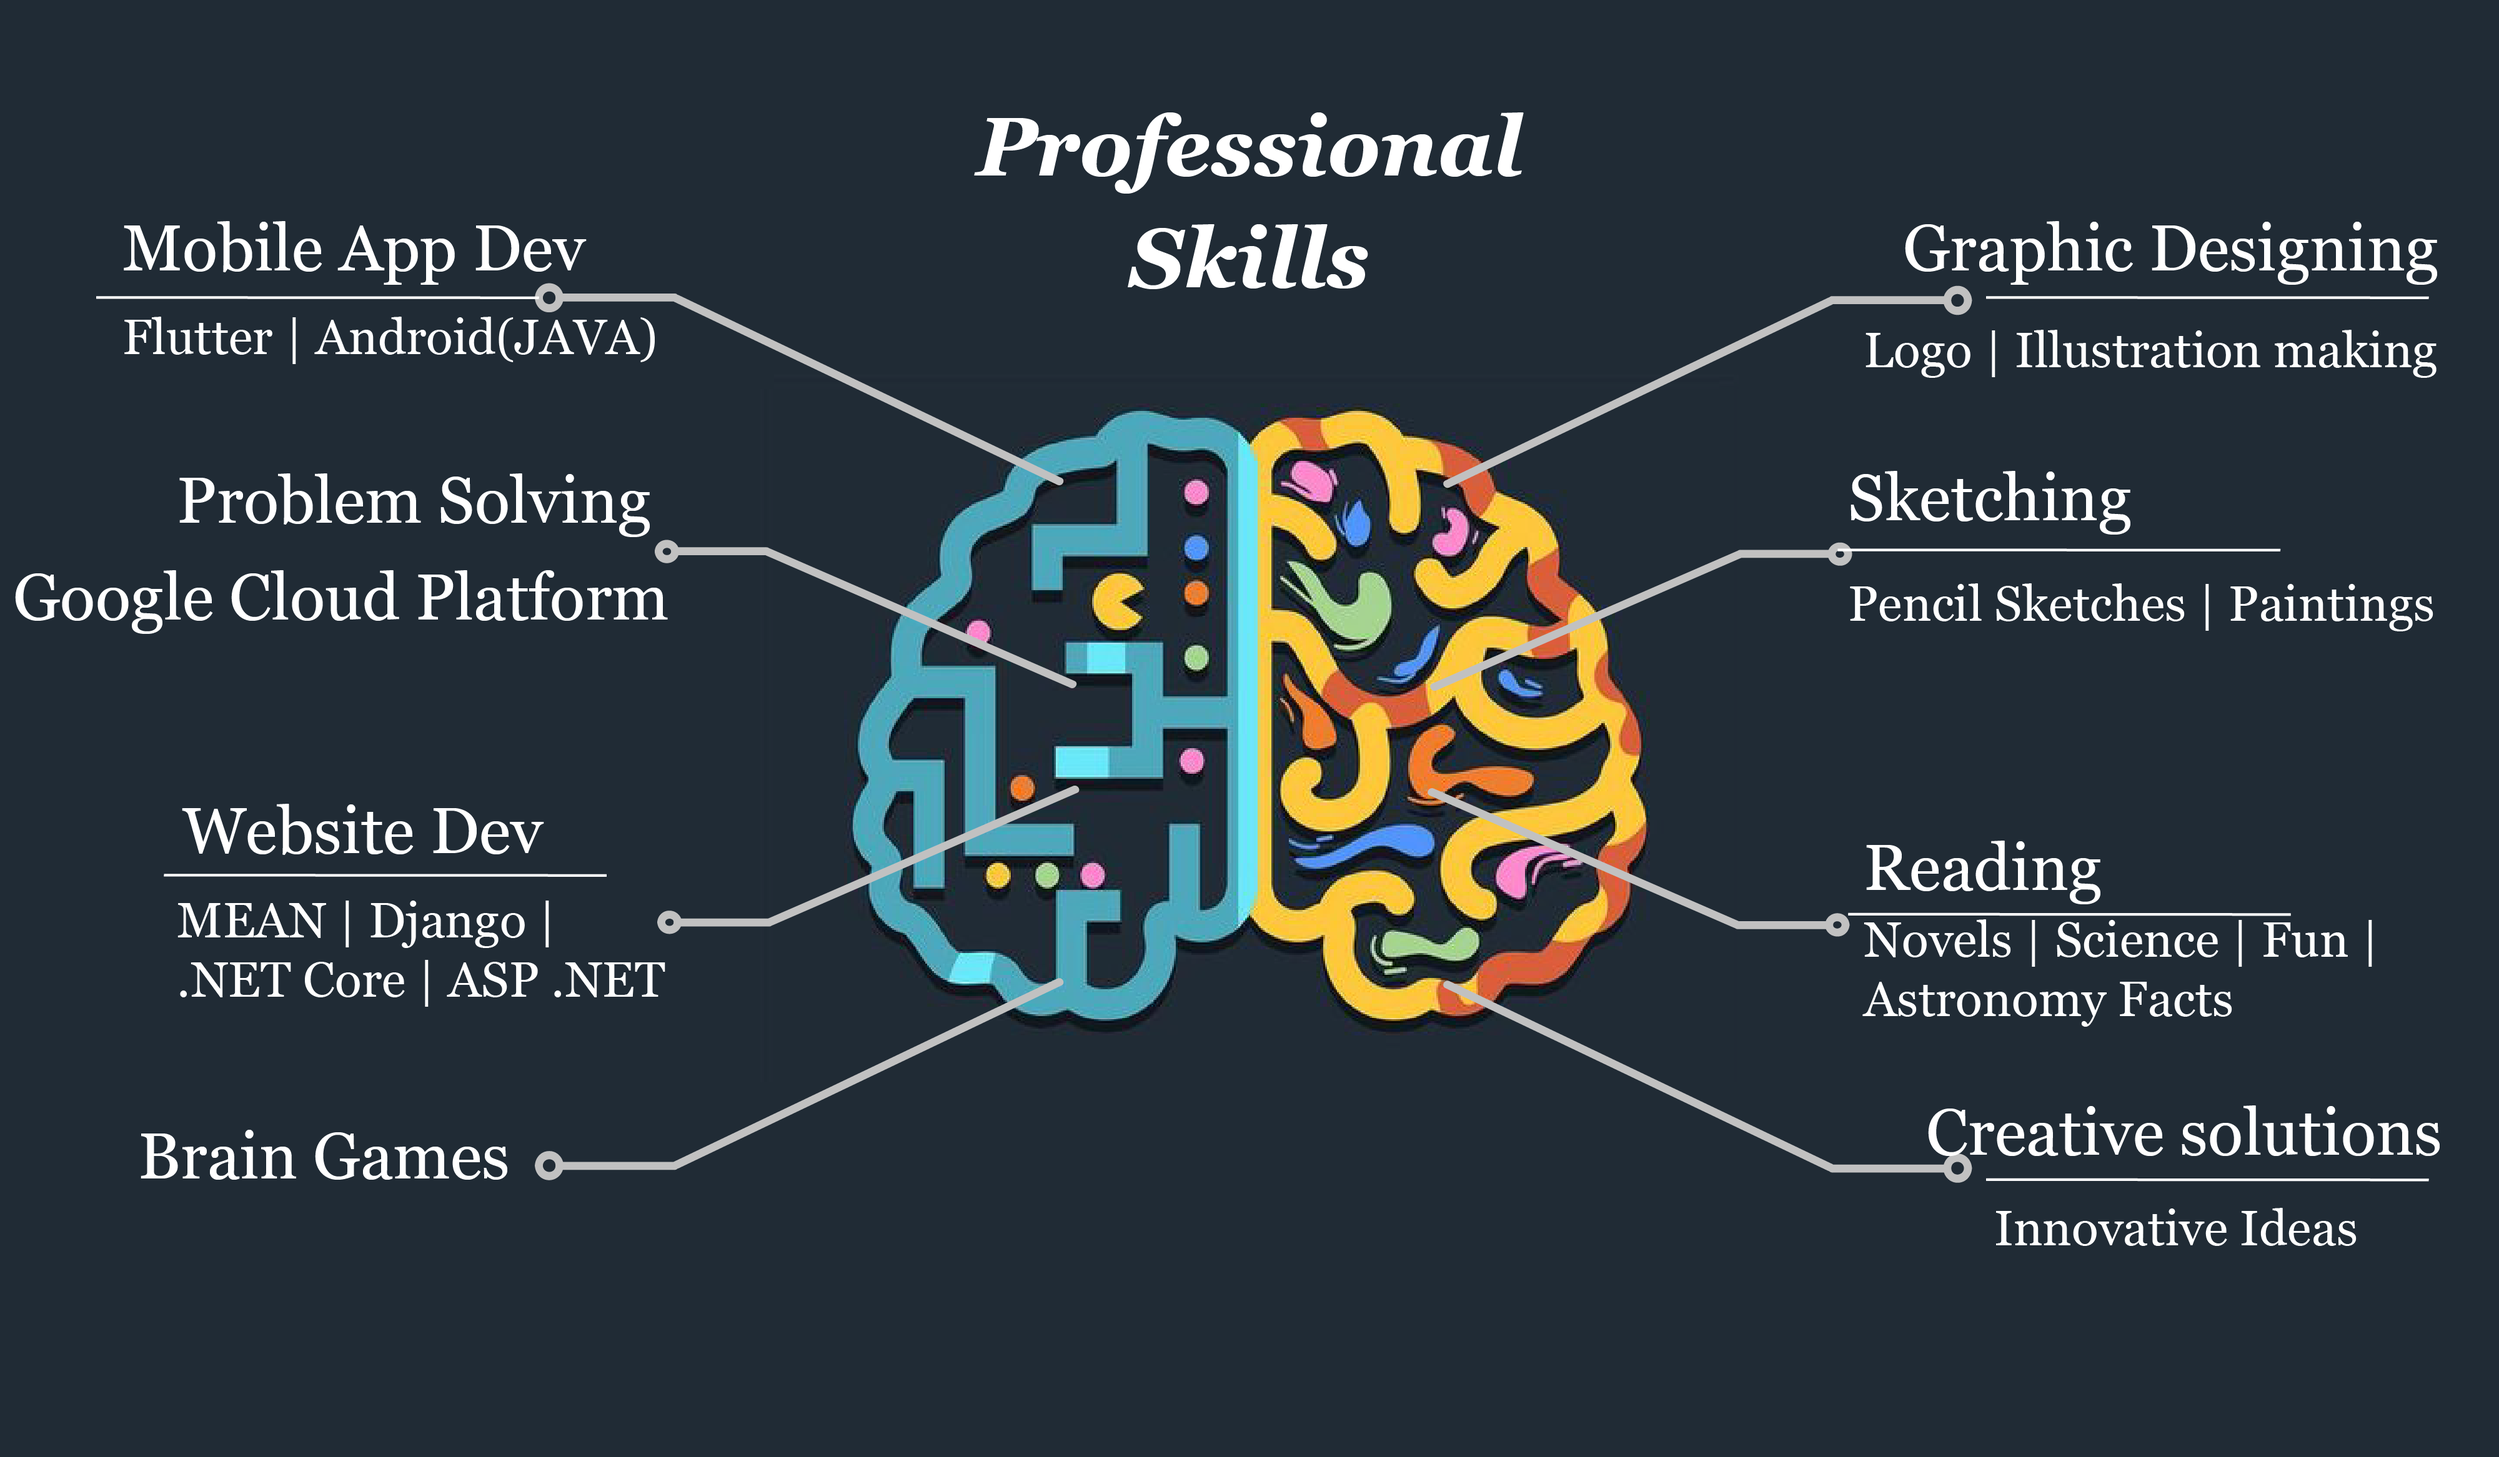
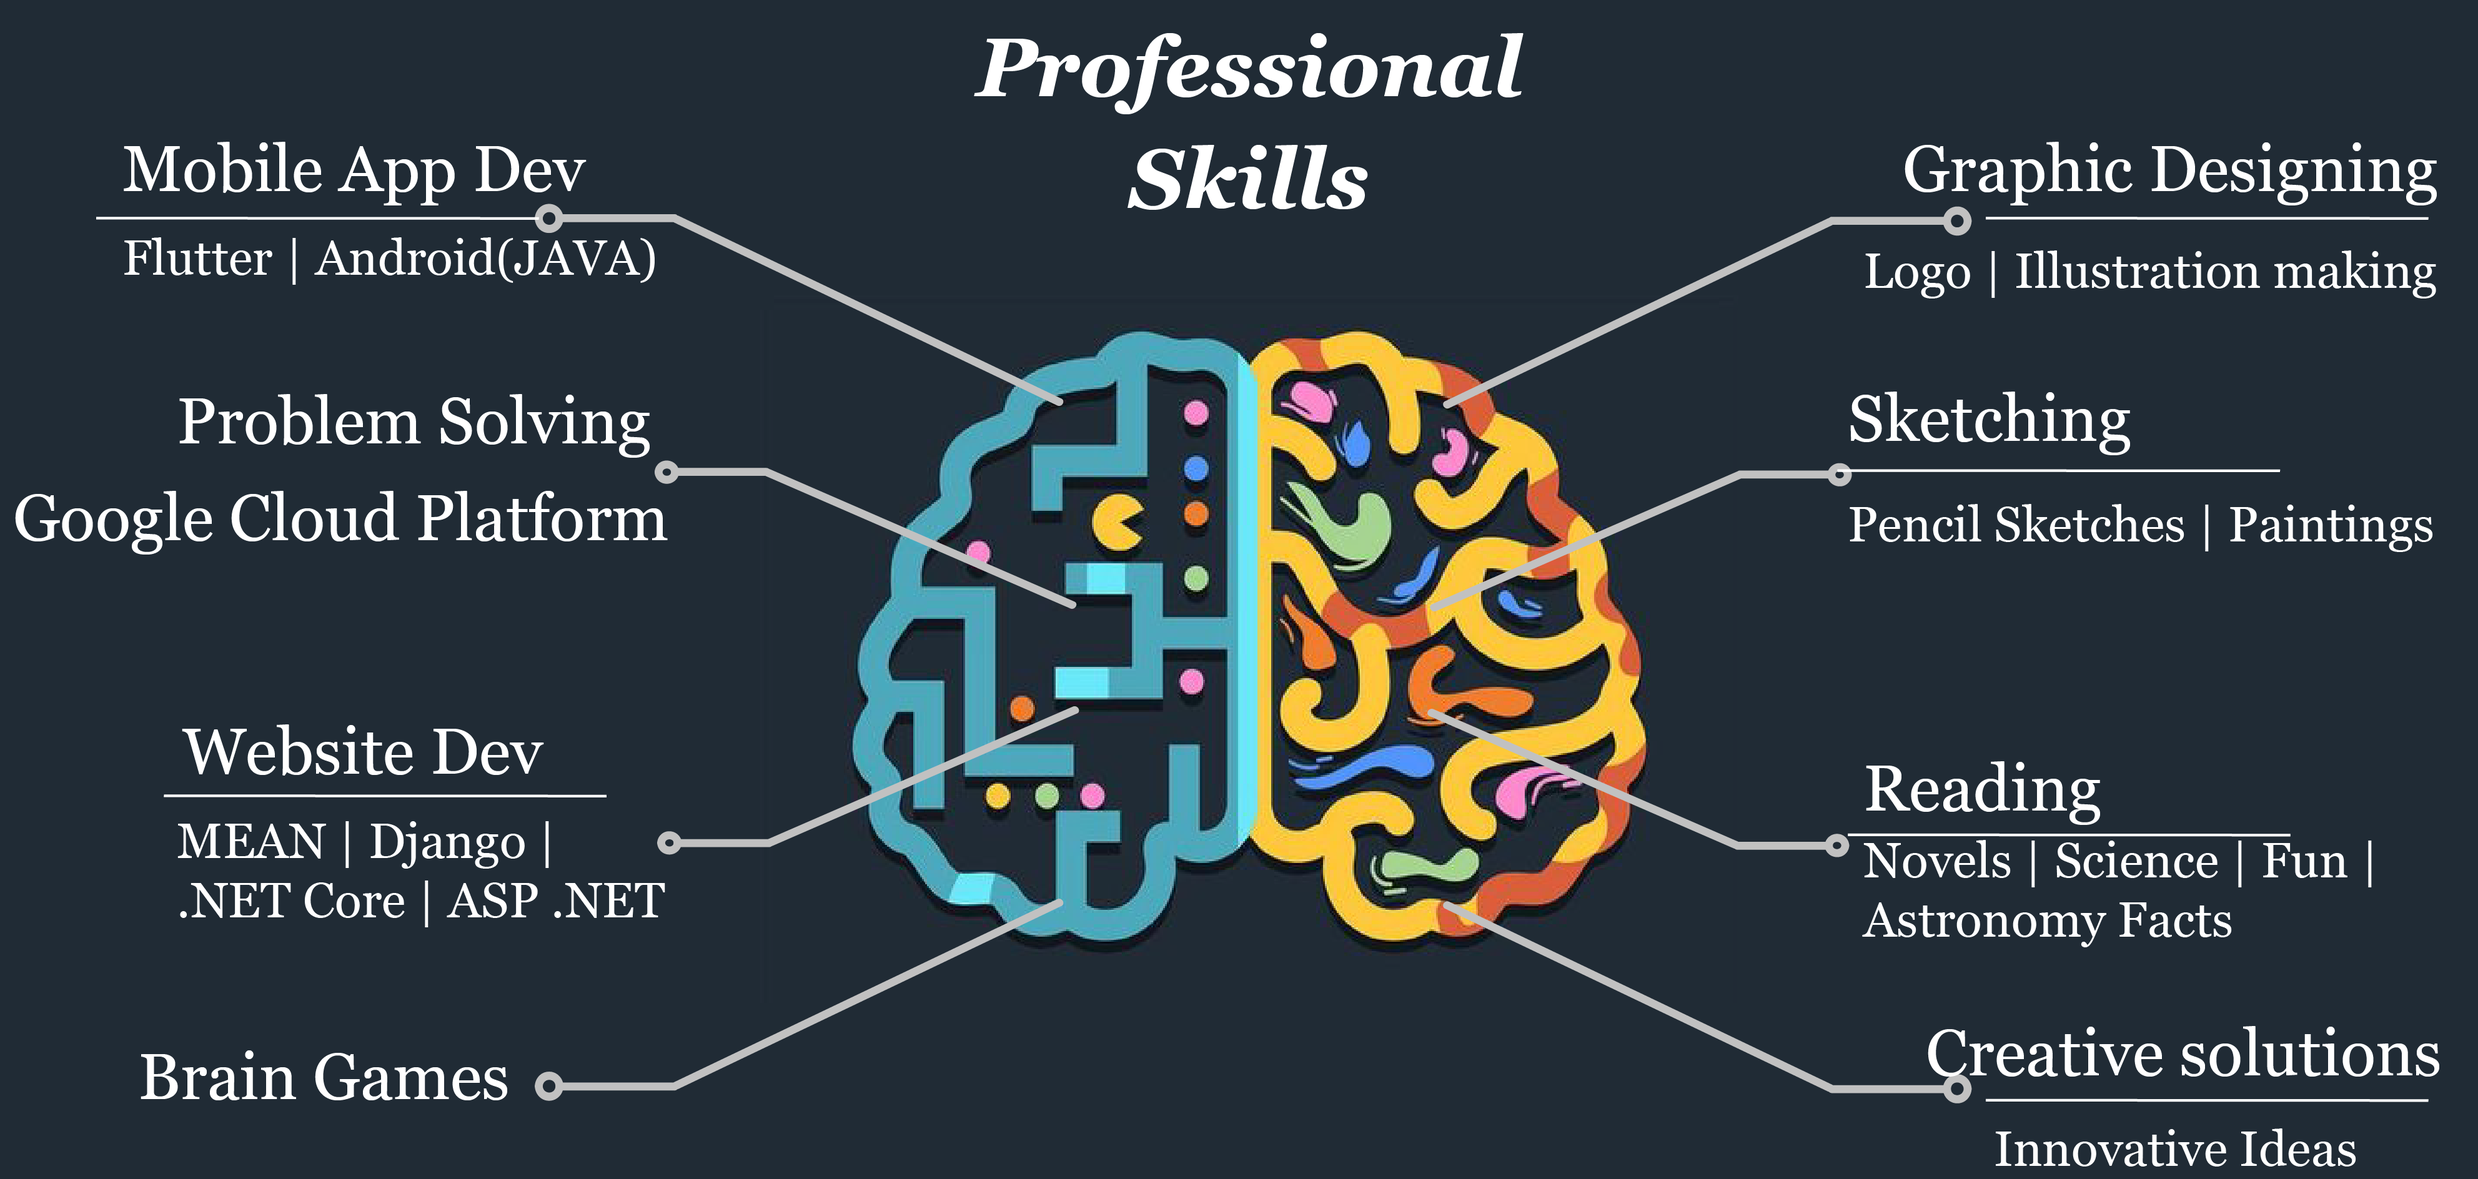
responsiveness added

diff --git a/index.html b/index.html
@@ -85,10 +85,11 @@
         }
         
         #section2 {
-            background-color: rgb(213, 118, 236);
+            background-color: #212B35 !important;
             background-image: url('images/skills.png');
-            background-size: cover;
-            object-fit: cover;
+            background-size: contain;
+			background-repeat: no-repeat;
+        
         }
         
         #section3 {
